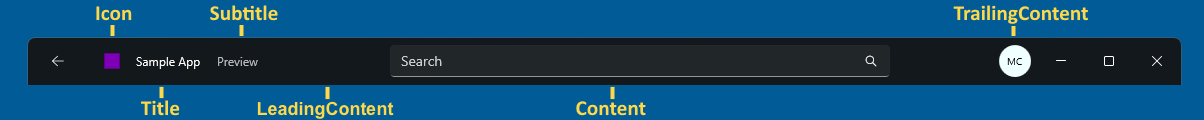
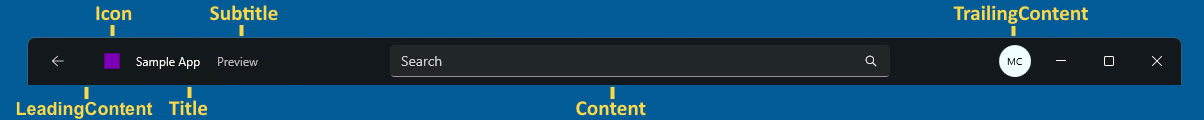
Update titlebar ref image (#2665)
* Update ref image

* Update titlebar.md

diff --git a/docs/user-interface/controls/titlebar.md b/docs/user-interface/controls/titlebar.md
@@ -22,7 +22,7 @@ The .NET Multi-platform App UI (.NET MAUI) <xref:Microsoft.Maui.Controls.TitleBa
 - <xref:Microsoft.Maui.Controls.TitleBar.DefaultTemplate>, of type <xref:Microsoft.Maui.Controls.ControlTemplate>, which represents the default template for the title bar.
 - <xref:Microsoft.Maui.Controls.TitleBar.ForegroundColor>, of type <xref:Microsoft.Maui.Graphics.Color>, which specifies the foreground colour of the title bar, and is used as the color for the title and subtitle text.
 - <xref:Microsoft.Maui.Controls.TitleBar.Icon>, of type <xref:Microsoft.Maui.Controls.ImageSource>, which represents an optional 16x16px icon image for the title bar.
-- <xref:Microsoft.Maui.Controls.TitleBar.LeadingContent>, of type <xref:Microsoft.Maui.IView>, which specifies the control for the content that follows the icon.
+- <xref:Microsoft.Maui.Controls.TitleBar.LeadingContent>, of type <xref:Microsoft.Maui.IView>, which specifies the control for the content that precedes the icon.
 - <xref:Microsoft.Maui.Controls.TitleBar.PassthroughElements>, of type `IList<IView>`, which represents a list of elements that should prevent dragging in the title bar region and instead directly handle input.
 - <xref:Microsoft.Maui.Controls.TitleBar.Subtitle>, of type `string`, which specifies the subtitle text of the title bar. This is usually secondary information about the app or window.
 - <xref:Microsoft.Maui.Controls.TitleBar.Title>, of type `string`, which specifies the title text of the title bar. This is usually the name of the app or indicates the purpose of the window.
